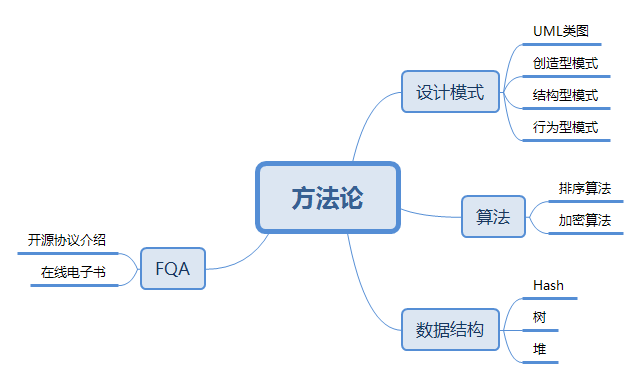
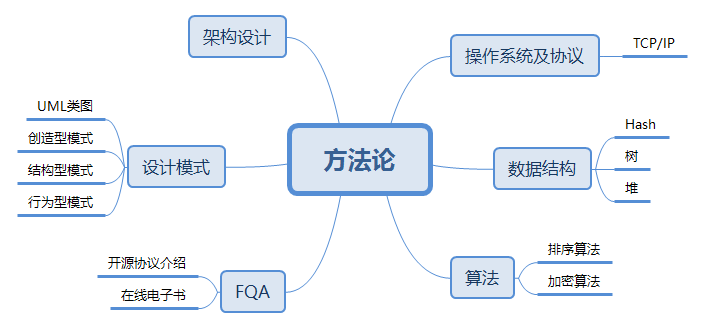
更改一些目录结构

diff --git a/src/components/blog/methodology/MethodologyIndex.vue b/src/components/blog/methodology/MethodologyIndex.vue
@@ -66,17 +66,13 @@
                 currentView: HomePage,
                 allArtyles:[
                     {
-                        title:'设计模式',
+                        title:'操作系统及协议',
                         data:[
-                            {title:'UML类图', class:'UMLClassDi', id:"designpattern" },
-                            {title:'创建型模式', class:'CreationMode'},
-                            {title:'结构型模式', class:'StructuralMode' },
-                            {title:'行为型模式', class:'BehavioralMode' }
+                            {title:'TCP/IP 协议详解', class:'tcpip', id:"systemAndAgreement" }
                         ]
-                    }, {
-                        title:'算法',
+                    },  {
+                        title:'架构设计',
                         data:[
-                            {title:'排序算法', class:'SortingAlgorithm', id:"algorithm" }
                         ]
                     }, {
                         title:'数据结构',
@@ -85,6 +81,19 @@
                             {title:'各类常用树的介绍', class:'TreeAndCommons' },
                             {title:'数据结构 - 堆（Heap）', class:'WhatisHeap' },
                             {title:'操作系统中heap和stack的区别', class:'HeapAndStack'}
+                        ]
+                    }, {
+                        title:'算法',
+                        data:[
+                            {title:'排序算法', class:'SortingAlgorithm', id:"algorithm" }
+                        ]
+                    }, {
+                        title:'设计模式',
+                        data:[
+                            {title:'UML类图', class:'UMLClassDi', id:"designpattern" },
+                            {title:'创建型模式', class:'CreationMode'},
+                            {title:'结构型模式', class:'StructuralMode' },
+                            {title:'行为型模式', class:'BehavioralMode' }
                         ]
                     }, {
                         title:'FQA',

diff --git a/src/components/incloude/Header.vue b/src/components/incloude/Header.vue
@@ -101,14 +101,20 @@
                                 方法论<i class="el-icon-caret-bottom el-icon--right"></i>
                             </span>
                         <el-dropdown-menu slot="dropdown">
-                            <router-link :to="{ name: 'MethodologyType', params: { typeName: 'designpattern' }}">
-                                <el-dropdown-item>设计模式</el-dropdown-item>
+                            <router-link :to="{ name: 'MethodologyType', params: { typeName: 'systemAndAgreement' }}">
+                                <el-dropdown-item>操作系统及协议</el-dropdown-item>
+                            </router-link>
+                            <router-link :to="{ name: 'MethodologyType', params: { typeName: 'architecture' }}">
+                                <el-dropdown-item>架构设计</el-dropdown-item>
+                            </router-link>
+                            <router-link :to="{ name: 'MethodologyType', params: { typeName: 'structure' }}">
+                                <el-dropdown-item>数据结构</el-dropdown-item>
                             </router-link>
                             <router-link :to="{ name: 'MethodologyType', params: { typeName: 'algorithm' }}">
                                 <el-dropdown-item>算法</el-dropdown-item>
                             </router-link>
-                            <router-link :to="{ name: 'MethodologyType', params: { typeName: 'structure' }}">
-                                <el-dropdown-item>数据结构</el-dropdown-item>
+                            <router-link :to="{ name: 'MethodologyType', params: { typeName: 'designpattern' }}">
+                                <el-dropdown-item>设计模式</el-dropdown-item>
                             </router-link>
                             <router-link :to="{ name: 'MethodologyType', params: { typeName: 'fqa' }}">
                                 <el-dropdown-item>FQA</el-dropdown-item>
